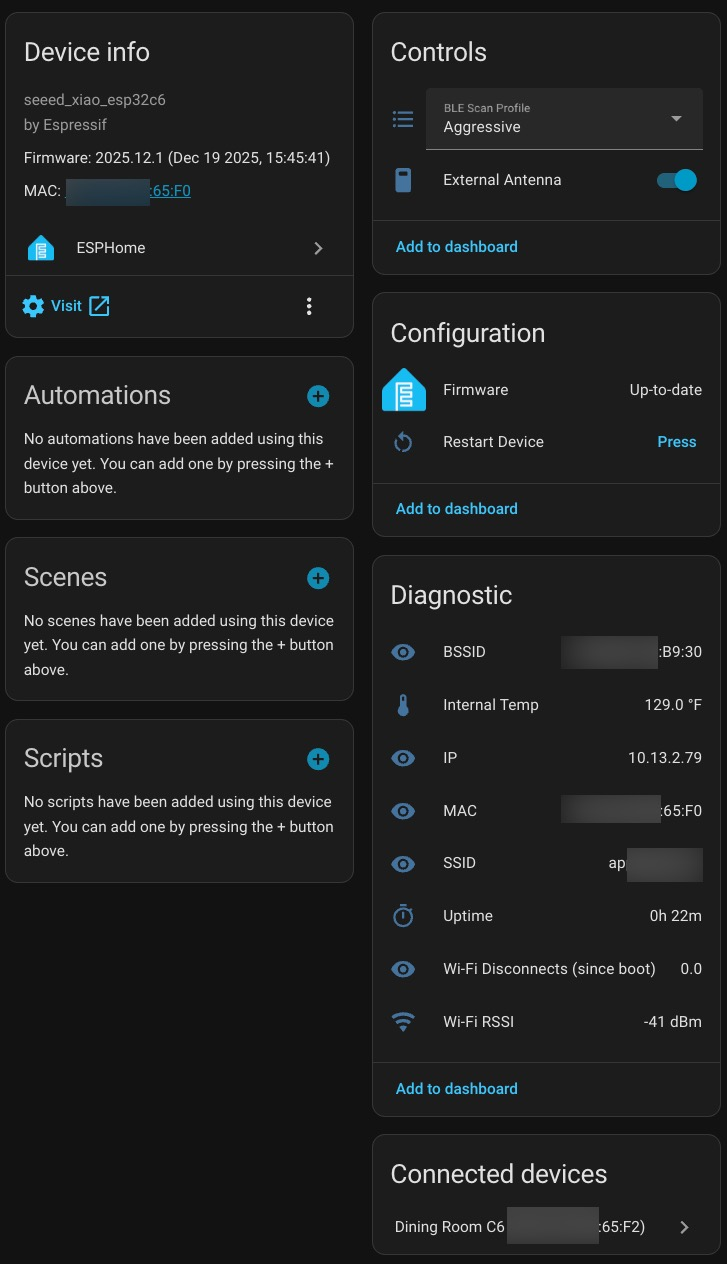
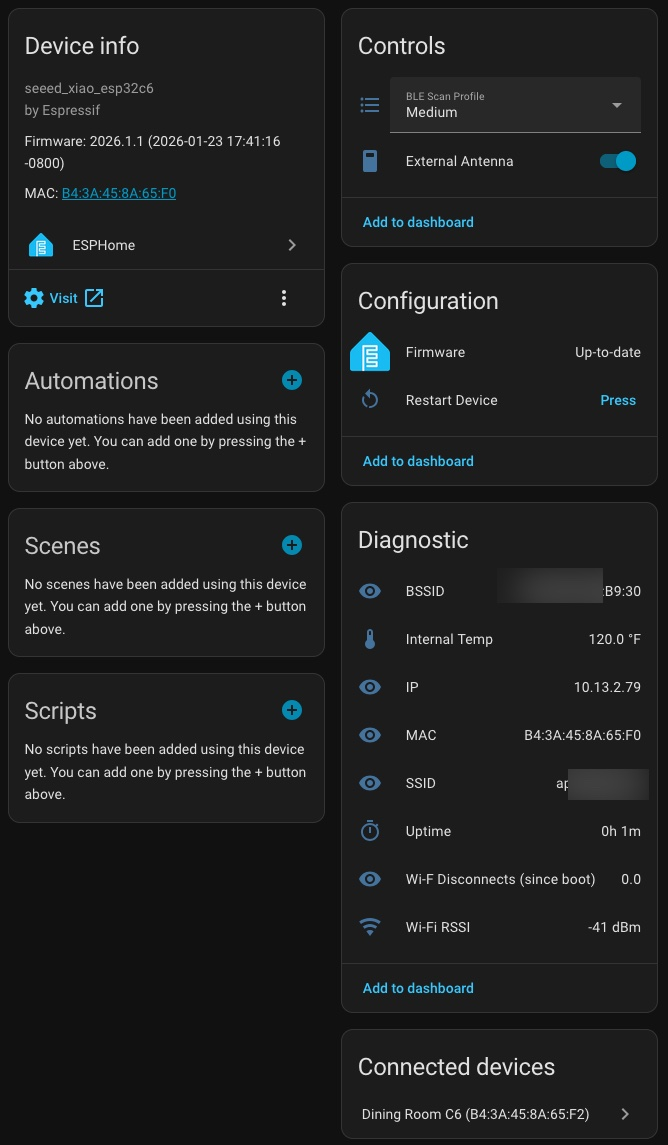
Update BLE scan profiles to Low/Medium/High and use ESPHome 2025.12 GPIO aliases
- Change BLE scan profiles from Aggressive/Balanced to Low/Medium/High
- Low: 9% duty cycle, Medium: 28% (default), High: 50%
- Update antenna control to use RF_SWITCH_EN and RF_ANT_SELECT board aliases
- Add ESPHome 2025.12.0 requirement note for external antenna support
- Update screenshot to reflect new BLE Scan Profile selector

🤖 Generated with [Claude Code](https://claude.com/claude-code)

diff --git a/examples/common/README-c6-base.md b/examples/common/README-c6-base.md
@@ -21,7 +21,7 @@ Key sections and what they do
 
   - `name: ${device_name}` and `friendly_name: ${friendly_name}`: the base config now includes these, so device YAMLs no longer need to define the `esphome:` section — just provide the substitutions.
 
-  - `on_boot`: runs actions when the device boots. The base toggles GPIO3 and GPIO14 outputs used for antenna selection via the FM8625H RF switch (turning the external antenna on/off). If you add hardware that uses these pins, be aware of these actions.
+  - `on_boot`: runs actions when the device boots. The base toggles `RF_SWITCH_EN` (GPIO3) and `RF_ANT_SELECT` (GPIO14) outputs used for antenna selection via the FM8625H RF switch (turning the external antenna on/off). These pin aliases are provided by the ESPHome 2025.12+ board definition. If you add hardware that uses these pins, be aware of these actions.
 
 - `logger`:
 
@@ -63,9 +63,10 @@ Key sections and what they do
 
   - `esp32_ble_tracker` and `bluetooth_proxy`: enable BLE scanning and proxying for Home Assistant presence detection.
 
-  - BLE scan parameters are configurable via a `select` entity with two profiles:
-    - **Aggressive** (default): 160ms interval, 160ms window (100% duty cycle) — maximum presence detection accuracy
-    - **Balanced**: 320ms interval, 160ms window (50% duty cycle) — reduced power consumption
+  - BLE scan parameters are configurable via a `select` entity with three profiles:
+    - **Low**: 320ms interval, 30ms window (9% duty cycle) — minimal power consumption
+    - **Medium** (default): 320ms interval, 90ms window (28% duty cycle) — balanced performance
+    - **High**: 320ms interval, 160ms window (50% duty cycle) — maximum presence detection accuracy
     - Profile selection persists across reboots via `restore_value: true`
 
 - `sensor` / `text_sensor` / `time` / `globals`:
@@ -76,11 +77,11 @@ Key sections and what they do
 
 - `switch` (External Antenna)
 
-  - A template switch controls two GPIO outputs (`ant_gpio3` and `ant_gpio14`) to toggle internal/external antenna via the FM8625H RF switch. GPIO3 controls RF switch power (LOW = ON), GPIO14 selects antenna (HIGH = external U.FL, LOW = internal PCB). The outputs themselves are defined in the `output:` section.
+  - A template switch controls two GPIO outputs (`rf_switch_enable` and `rf_antenna_select`) to toggle internal/external antenna via the FM8625H RF switch. `RF_SWITCH_EN` (GPIO3) controls RF switch power (LOW = ON), `RF_ANT_SELECT` (GPIO14) selects antenna (HIGH = external U.FL, LOW = internal PCB). The outputs themselves are defined in the `output:` section.
 
 - `output`:
 
-  - Defines the actual GPIO3 and GPIO14 outputs used for FM8625H RF switch antenna selection. If you repurpose these pins, update this section and the `switch` actions accordingly.
+  - Defines the `RF_SWITCH_EN` and `RF_ANT_SELECT` outputs using ESPHome 2025.12+ board pin aliases for FM8625H RF switch antenna selection. These aliases map to GPIO3 and GPIO14 respectively. If you repurpose these pins, update this section and the `switch` actions accordingly.
 
 Substitutions and secrets
 

diff --git a/README.md b/README.md
@@ -16,7 +16,7 @@ Quick overview
 
 ![Seeed XIAO ESP32-C6 PCB](docs/seeed%20c6%20pcb.jpg)
 
-**Note:** The Seeed XIAO ESP32-C6 board is officially supported in ESPHome as of version 2025.12.0 (December 2025). The board definition includes GPIO aliases and RF switch pin definitions (GPIO3 = `RF_SWITCH_EN`, GPIO14 = `RF_ANT_SELECT`).
+**Requirements:** ESPHome 2025.12.0 or later is required for external antenna support. The Seeed XIAO ESP32-C6 board definition added in this version includes GPIO aliases for the FM8625H RF switch (`RF_SWITCH_EN` = GPIO3, `RF_ANT_SELECT` = GPIO14), enabling easy switching between the internal ceramic antenna and external U.FL antenna.
 
 ## How to use the base package
 
@@ -39,7 +39,7 @@ What the base config provides:
 
 - Board & SDK: selects `esp32c6` variant and `seeed_xiao_esp32c6` board with `esp-idf` framework.
 
-- Boot actions: toggles GPIO3 and GPIO14 used for antenna selection on boot (FM8625H RF switch).
+- Boot actions: toggles `RF_SWITCH_EN` and `RF_ANT_SELECT` pins used for antenna selection on boot (FM8625H RF switch).
 
 - Logger & status LED: configures serial log level (USB_SERIAL_JTAG) and board LED (GPIO15) behavior.
 
@@ -48,13 +48,14 @@ What the base config provides:
 - Wi‑Fi: uses `!secret` for `wifi_ssid`, `wifi_password`, and `wifi_captive`; provides fallback captive AP settings with disconnect tracking.
 
 - BLE: enables BLE scanning and Bluetooth proxying with configurable scan profiles:
-  - **Aggressive** (default): 160ms interval, 160ms window (100% duty cycle) for maximum presence detection accuracy
-  - **Balanced**: 320ms interval, 160ms window (50% duty cycle) for reduced power consumption
+  - **Low**: 320ms interval, 30ms window (9% duty cycle) — minimal power consumption
+  - **Medium** (default): 320ms interval, 90ms window (28% duty cycle) — balanced performance
+  - **High**: 320ms interval, 160ms window (50% duty cycle) — maximum presence detection accuracy
   - Profile selection persists across reboots
 
 - Sensors: uptime, internal temperature, Wi‑Fi RSSI, Wi‑Fi info (BSSID, IP, SSID, MAC), Wi‑Fi disconnects (since boot), and SNTP time.
 
-- Antenna control: a template switch manages two outputs (`ant_gpio3`, `ant_gpio14`) for FM8625H RF switch control.
+- Antenna control: a template switch manages two outputs (`rf_switch_enable`, `rf_antenna_select`) for FM8625H RF switch control using ESPHome 2025.12+ board aliases.
 
 ## IRK Capture Variant
 
@@ -142,7 +143,7 @@ Here's what the device looks like in Home Assistant's ESPHome integration:
 The device page shows:
 
 - **Device info**: Board type, firmware version, and MAC address
-- **Controls**: BLE Scan Profile selector (Aggressive/Balanced) and External Antenna toggle switch
+- **Controls**: BLE Scan Profile selector (Low/Medium/High) and External Antenna toggle switch
 - **Configuration**: Firmware management and OTA updates
 - **Diagnostic**: BSSID, internal temperature, IP address, MAC address, SSID, uptime, Wi-Fi disconnects (since boot), and Wi-Fi RSSI
 
